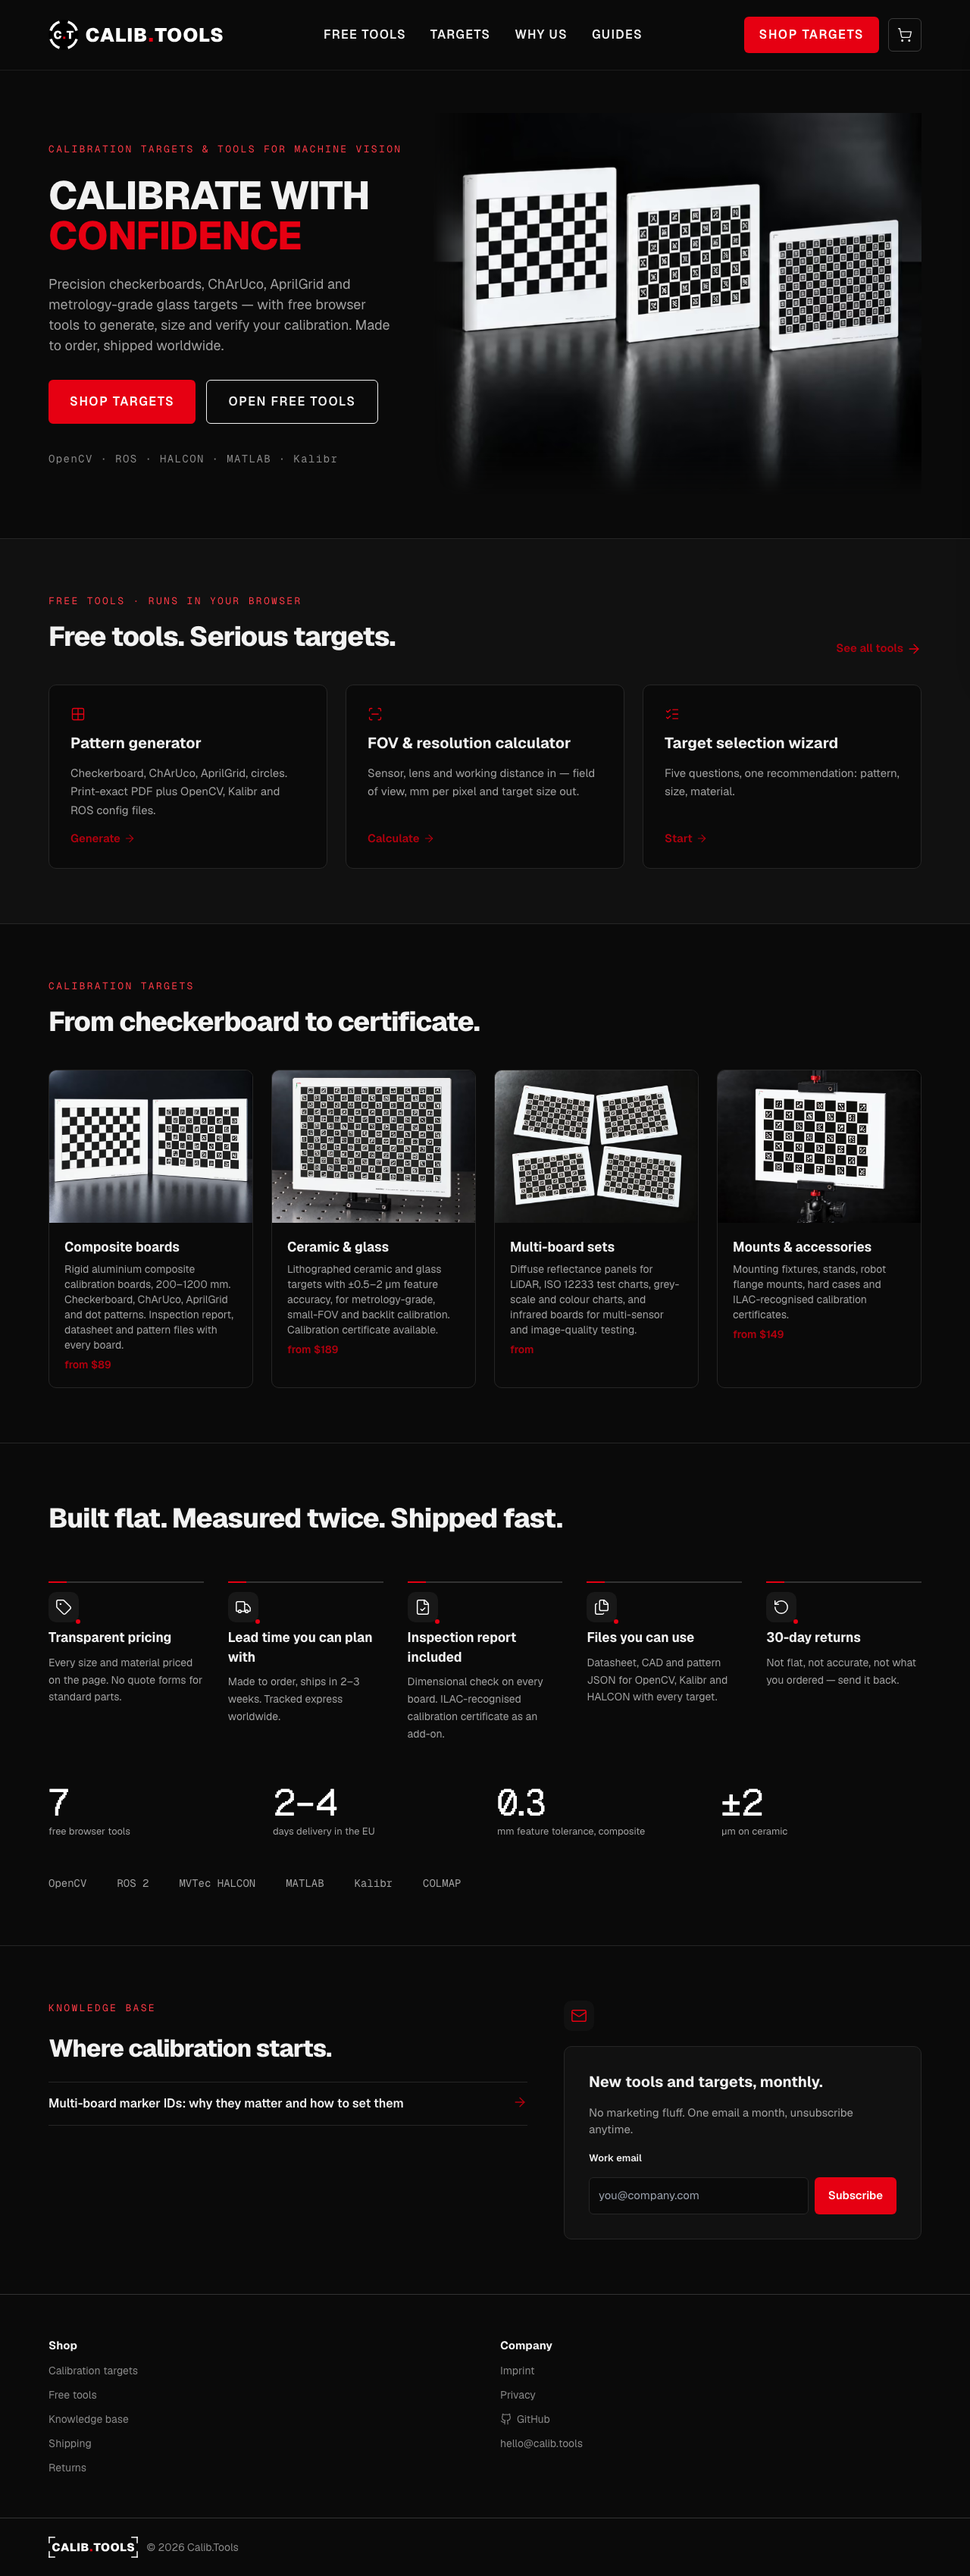
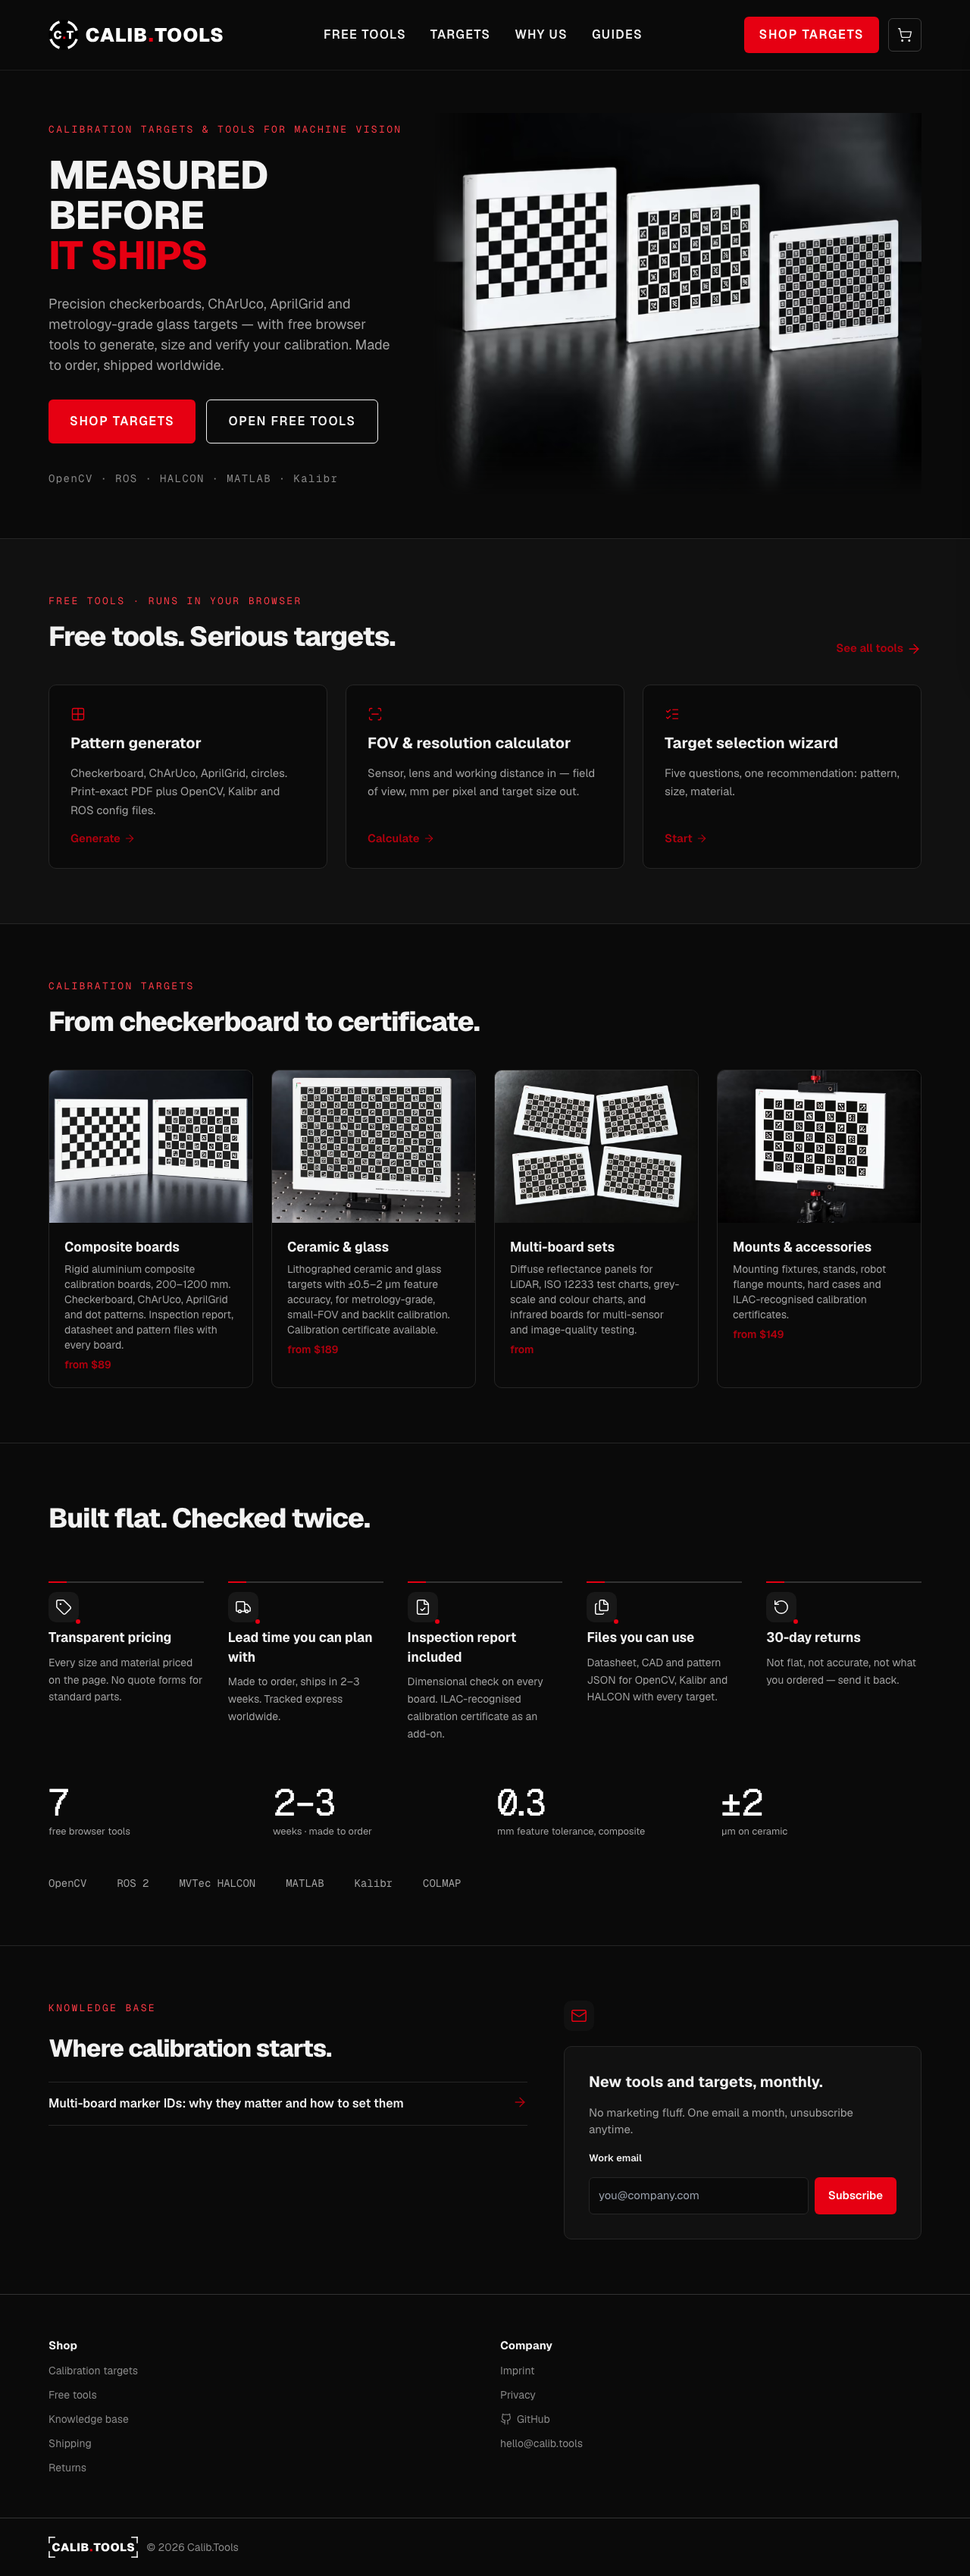
feat(copy): new tagline "Measured before it ships", update stats and banned phrases
- Hero H1: "MEASURED BEFORE / IT SHIPS" (TAGLINE constant in claims.ts)
- <title> and OG description use TAGLINE instead of old line
- Stats row: "2–3 weeks · made to order" replaces "2–4 days delivery in EU"
- Why-us headline: "Built flat. Checked twice." (was "…Shipped fast.")
- Banned-phrase guard: added "days delivery", "Calibrate with Confidence",
  "Shipped fast" — build fails on any hit
- Updated guides sidebar CTA and about.astro placeholder
- Regenerated docs manifest (claims.ts is a hash source)

diff --git a/src/lib/site.ts b/src/lib/site.ts
@@ -2,7 +2,7 @@
 
 export const stats = [
   { value: '7', caption: 'free browser tools' },
-  { value: '2–4', caption: 'days delivery in the EU' },
+  { value: '2\u20133', caption: 'weeks \u00B7 made to order' },
   { value: '0.3', caption: 'mm feature tolerance, composite' },
   { value: '±2', caption: 'µm on ceramic' },
 ] as const;

diff --git a/src/lib/claims.ts b/src/lib/claims.ts
@@ -22,3 +22,6 @@ export const CERT_CLAIM =
 
 /** Default Incoterm (to be confirmed). */
 export const INCOTERM = 'DAP' as const;
+
+/** Primary tagline — used for the home H1, <title> suffix, OG fallback. */
+export const TAGLINE = 'Measured before it ships';

diff --git a/docs/design.md b/docs/design.md
@@ -6,8 +6,8 @@ Product page, Pattern generator, Guide article).
 - Palette: brand #E60012, brand-dark #B3000E, brand-tint #FBE9EA; ink #1A1A1A / #4A4A4A / #6B6B6B;
   lines #E6E6E6 / #ECECEC; grounds #FFFFFF / #FAFAFA / #F5F5F5. Dark band uses ink with brand top rules.
 - Type: Geist Sans (400–800) for UI/body, Geist Mono for specs and file names, Geist Pixel Square for eyebrows, badges and stat numbers. See docs/brand/typography.md.
-- Tagline: "Calibrate with confidence." Secondary lines: "Free tools. Serious targets.",
-  "From checkerboard to certificate.", "Built flat. Measured twice. Shipped fast.", "Where calibration starts."
+- Tagline: "Measured before it ships." (constant `TAGLINE` in `src/lib/claims.ts`). Secondary lines: "Free tools. Serious targets.",
+  "From checkerboard to certificate.", "Built flat. Checked twice.", "Where calibration starts."
 - Logo: 3×3 red/black square grid + wordmark `calib.tools` (keep as one word, red ".tools").
 - Brand name: "Calib.Tools" (capital C and T) in prose, page titles, meta tags, and generated
   file credits. Domain names, URLs, the logo wordmark, and code identifiers stay lowercase.

diff --git a/docs/brand/brand.md b/docs/brand/brand.md
@@ -112,5 +112,8 @@ These must never appear on the website, datasheets or marketing materials:
 - "Inspected in Germany", "German-made", "Made in Germany"
 - "verified" (use "measured" instead)
 - "certified" (unless part of: "CNAS-accredited", "DAkkS-accredited", "DAkkS-calibrated", "accredited third-party laboratory", or the certificate product description)
+- "days delivery" (we ship made-to-order in weeks, not days)
+- "Calibrate with Confidence" (superseded tagline — use `TAGLINE` from `src/lib/claims.ts`)
+- "Shipped fast" (superseded copy)
 
 Enforced by `scripts/check-prose.mjs` — build fails on a hit.
